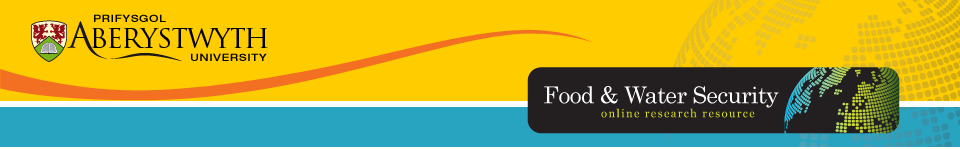
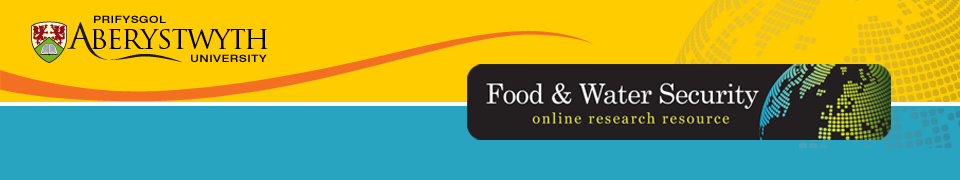
more layout fixes that missed an earlier git commit

diff --git a/sites/fwshub/mason/header.html b/sites/fwshub/mason/header.html
@@ -37,7 +37,7 @@ event('menu','end');
 
 <div id='head' style="background-color: white; background-image: url('<% $s->rawFile('fws-header.png') %>'); background-repeat:no-repeat; height: 180px; width: 960px;">
 	
-	<div style="margin-left: 628px; padding-top:6px">
+	<div style="margin-left: 6px; padding-top:6px">
 	    <& search/basic_form.html, small=>1, noButton=>1, %ARGS &>
 	</div>
 

diff --git a/sites/fwshub/mason/style.css b/sites/fwshub/mason/style.css
@@ -494,7 +494,7 @@ height:100%;
 #content {
 /*padding-left:<%$leftMargin%>; */
 /*padding-right:<%$rightMargin%>;*/
-margin-top:5px;
+margin-top:15px;
 width: 960px;
 /*min-width:<%$minWidth%>px;*/
 /*min-width: 400px;*/
